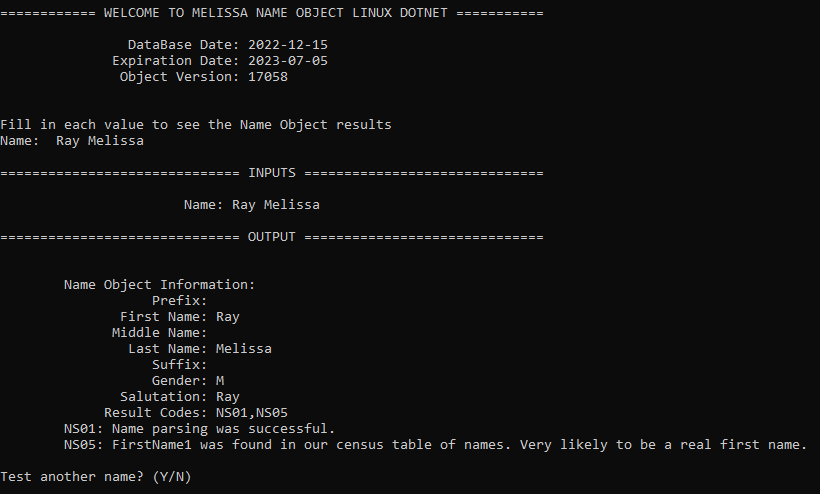
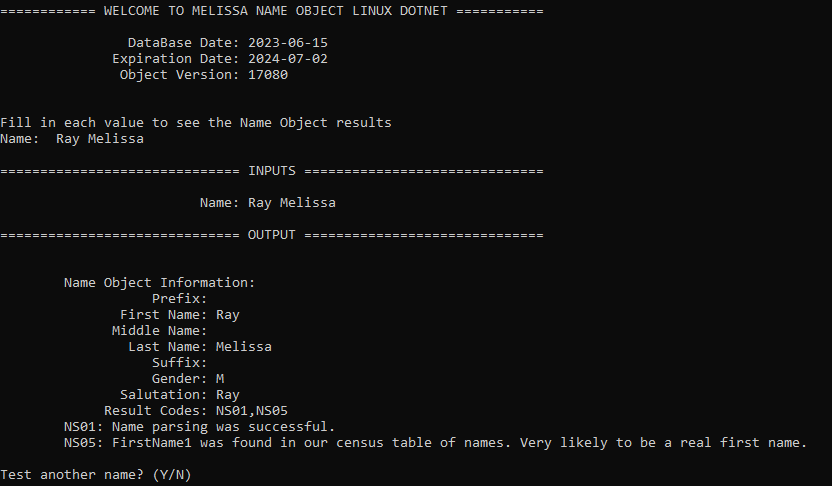
Tested successfully using Melissa data files for 2023.07

diff --git a/MelissaNameObjectLinuxDotnet/Program.cs b/MelissaNameObjectLinuxDotnet/Program.cs
@@ -82,7 +82,7 @@ namespace MelissaNameObjectLinuxDotnet
 
         // Print user input
         Console.WriteLine("\n============================== INPUTS ==============================\n");
-        Console.WriteLine($"\t               Name: {dataContainer.Name}");
+        Console.WriteLine($"\t                 Name: {dataContainer.Name}");
 
         // Execute Name Object
         nameObject.ExecuteObjectAndResultCodes(ref dataContainer);

diff --git a/README.md b/README.md
@@ -1,7 +1,6 @@
 # Melissa - Name Object Linux Dotnet
 
 ## Purpose
-
 This code showcases the Melissa Name Object using C#.
 
 Please feel free to copy or embed this code to your own project. Happy coding!
@@ -19,13 +18,11 @@ And return
 - Last Name
 - Gender
 - Salutation
-- ResultCodes
+- Result Codes
 
 ## Tested Environments
-
-- Linux 64-bit .NET 7.0, .NET 5.0, .NET Core 3.1
-- Ubuntu 20.04.05 LTS
-- Melissa data files for 2023-06
+- Linux 64-bit .NET 7.0, Ubuntu 20.04.05 LTS
+- Melissa data files for 2023-07
 
 ## Required File(s) and Programs
 
@@ -39,13 +36,9 @@ This is the code of the Melissa Object.
 - mdName.dat
 
 ## Getting Started
-
 These instructions will get you a copy of the project up and running on your local machine for development and testing purposes.
 
-This project is compatible with .NET 7.0, .NET 5.0, and .NET Core 3.1. If you would like to run this project for any other version besides .NET 7.0, proceed with the following procedures but check for and download your desired .NET version.
-
 #### Install the Dotnet Core SDK
-
 Before starting, check to see if you already have the .NET 7.0 SDK already installed by entering this command:
 
 `dotnet --list-sdks`
@@ -76,14 +69,12 @@ Once all of this is done, you should be able to verify that the SDK is installed
 ----------------------------------------
 
 #### Download this project
-
 ```
-$ git clone https://github.com/MelissaData/NameObject-Dotnet-Linux.git
+$ git clone https://github.com/MelissaData/NameObject-Dotnet-Linux
 $ cd NameObject-Dotnet-Linux
 ```
 
 #### Set up Melissa Updater 
-
 Melissa Updater is a CLI application allowing the user to update their Melissa applications/data. 
 
 - In the root directory of the project, create a folder called `MelissaUpdater` by using the command: 
@@ -108,29 +99,13 @@ Melissa Updater is a CLI application allowing the user to update their Melissa a
 ----------------------------------------
 
 #### Different ways to get data file(s)
-
 1.  Using Melissa Updater
 	- It will handle all of the data download/path and .so file(s) for you. 
 2.  If you already have the latest DQS Release (ZIP), you can find the data file(s) and .so file(s) in there
 	- Use the location of where you copied/installed the data and update the "DataPath" variable in the bash script.
 	- Copy all the .so file(s) mentioned above into the `MelissaNameObjectLinuxDotnet` project folder.
 	
-----------------------------------------
-
-#### Configure Target Framework
-
-Depending on your target .NET framework, you may need to configure the bash script. In order to do this, open up the `MelissaNameObjectLinuxDotnet.sh` for editing, proceed to the bottom of the script where you will find this section of code.
-
-Default set for .NET 7.0
-```
-dotnet publish -f="net7.0" -c Release -o $BuildPath  MelissaNameObjectLinuxDotnet/MelissaNameObjectLinuxDotnet.csproj
-#dotnet publish -f="net5.0" -c Release -o $BuildPath MelissaNameObjectLinuxDotnet/MelissaNameObjectLinuxDotnet.csproj
-#dotnet publish -f="netcoreapp3.1" -c Release -o $BuildPath MelissaNameObjectLinuxDotnet/MelissaNameObjectLinuxDotnet.csproj
-```
-The target framework is specified with the -f flag found in the command line. If you wish to use any version besides .NET 7.0, please uncomment the line containing that framework and comment out the line containing the .NET 7.0 framework (# to comment).
-
 #### Change Bash Script Permissions
-
 To be able to run the bash script, you must first make it an executable using the command:
 
 `chmod +x MelissaNameObjectLinuxDotnet.sh`
@@ -138,7 +113,6 @@ To be able to run the bash script, you must first make it an executable using th
 As an indicator, the filename will change colors once it becomes an executable.
 
 ## Run Bash Script
-
 Parameters:
 - -n or --name: a test name
  	
@@ -176,11 +150,9 @@ This is the expected output from a successful setup for interactive mode:
 
     
 ## Troubleshooting
-
 Troubleshooting for errors found while running your program.
 
 ### C# Errors:
-
 | Error      | Description |
 | ----------- | ----------- |
 | ErrorRequiredFileNotFound      | Program is missing a required file. Please check your Data folder and refer to the list of required files above. If you are unable to obtain all required files through the Melissa Updater, please contact technical support below. |
@@ -190,7 +162,6 @@ Troubleshooting for errors found while running your program.
 
 
 ## Contact Us
-
 For free technical support, please call us at 800-MELISSA ext. 4 (800-635-4772 ext. 4) or email us at tech@melissa.com.
 
 To purchase this product, contact the Melissa sales department at 800-MELISSA ext. 3 (800-635-4772 ext. 3).
